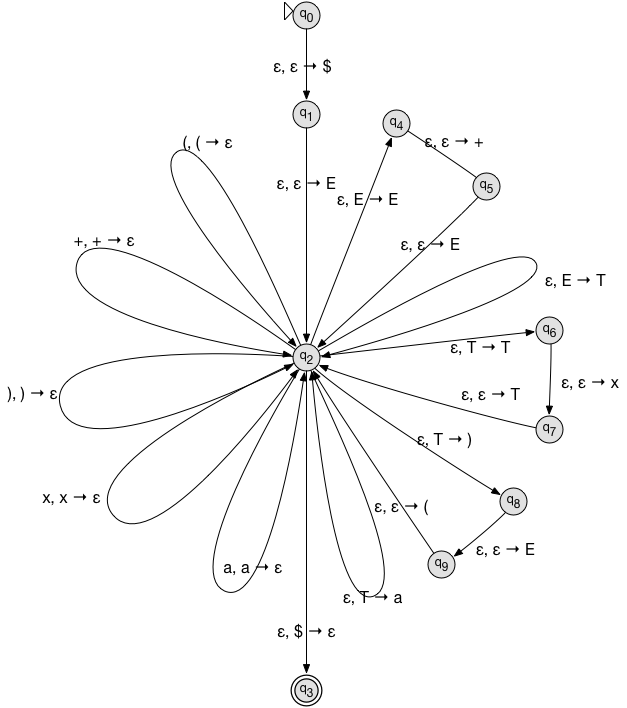
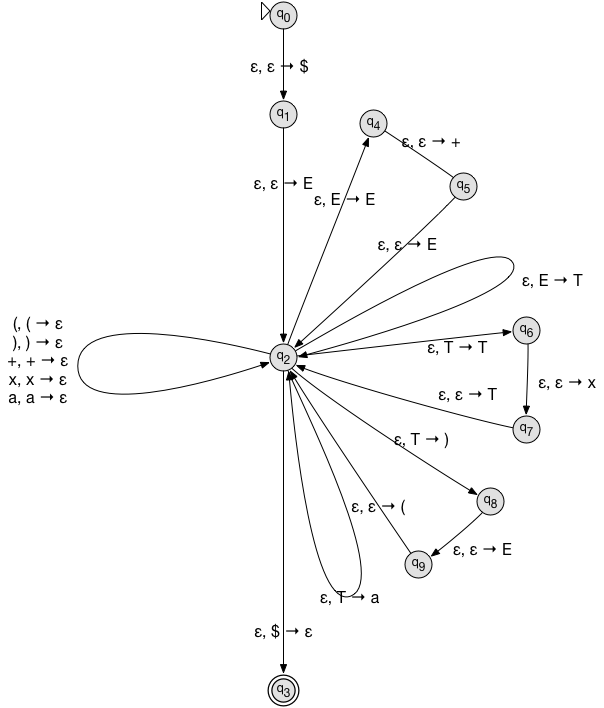
replace hw10 image

diff --git a/day10/hw10-solns.md b/day10/hw10-solns.md
@@ -99,7 +99,7 @@ Convert G to a PDA.
 
 **Solution:**
 
-![](hw10-2-soln.png)
+![](hw10-2-soln.svg)
 
 ### 3.
 
@@ -111,17 +111,17 @@ This solution applies the conversion to the abbreviated representation of the gr
 
 1. Introduce a new start variable:
 
-		S -> E
-		E -> E + E | T
-		T -> T x T | (E) | a
+   	S -> E
+   	E -> E + E | T
+   	T -> T x T | (E) | a
 
 2. Remove epsilon rules. This grammar has none, so we're done with this step.
 
 3. Remove unit rules:
 
-		S -> E
-		E -> E + E | T x T | (E) | a
-		T -> T x T | (E) | a
+   	S -> E
+   	E -> E + E | T x T | (E) | a
+   	T -> T x T | (E) | a
 
 4a. Introduce intermediate variables for long (>2 item) right-hand sides:
 
